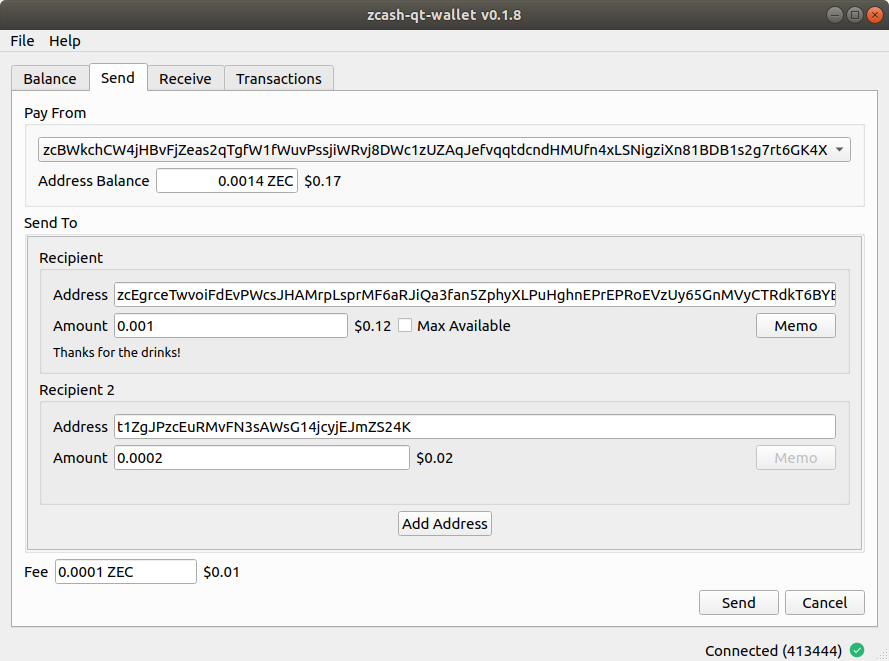
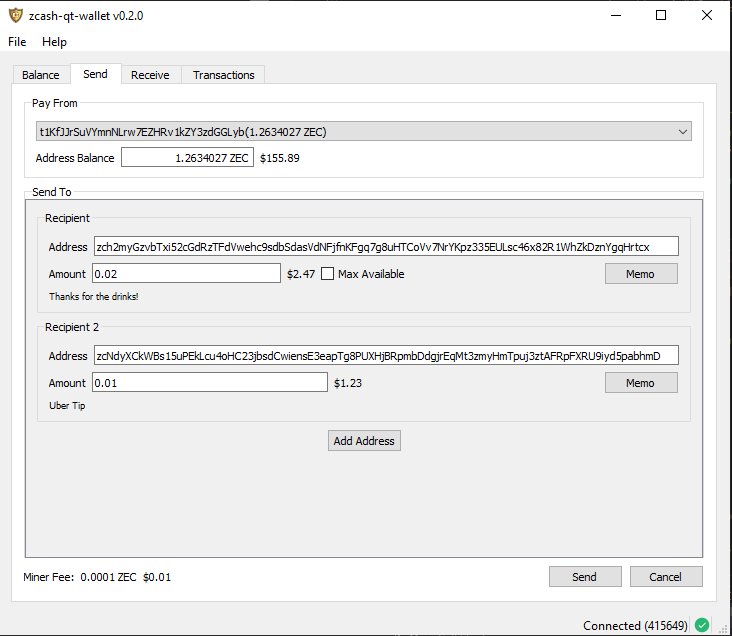
Update screenshot

Changed region(s): [[0.0, 0.0, 1.0, 1.0], [0.4508, 0.7767, 0.571, 0.8365], [0.8716, 0.6572, 0.9317, 0.717]]

diff --git a/README.md b/README.md
@@ -1,4 +1,4 @@
-zcash-qt-wallet is a z-Addr first wallet UI frontend for zcashd that runs on Windows and Linux
+zcash-qt-wallet is a z-Addr first, Sapling compatible wallet for zcashd that runs on Windows and Linux
 
 ![Screenshot](docs/screenshot-main.png?raw=true)
 
